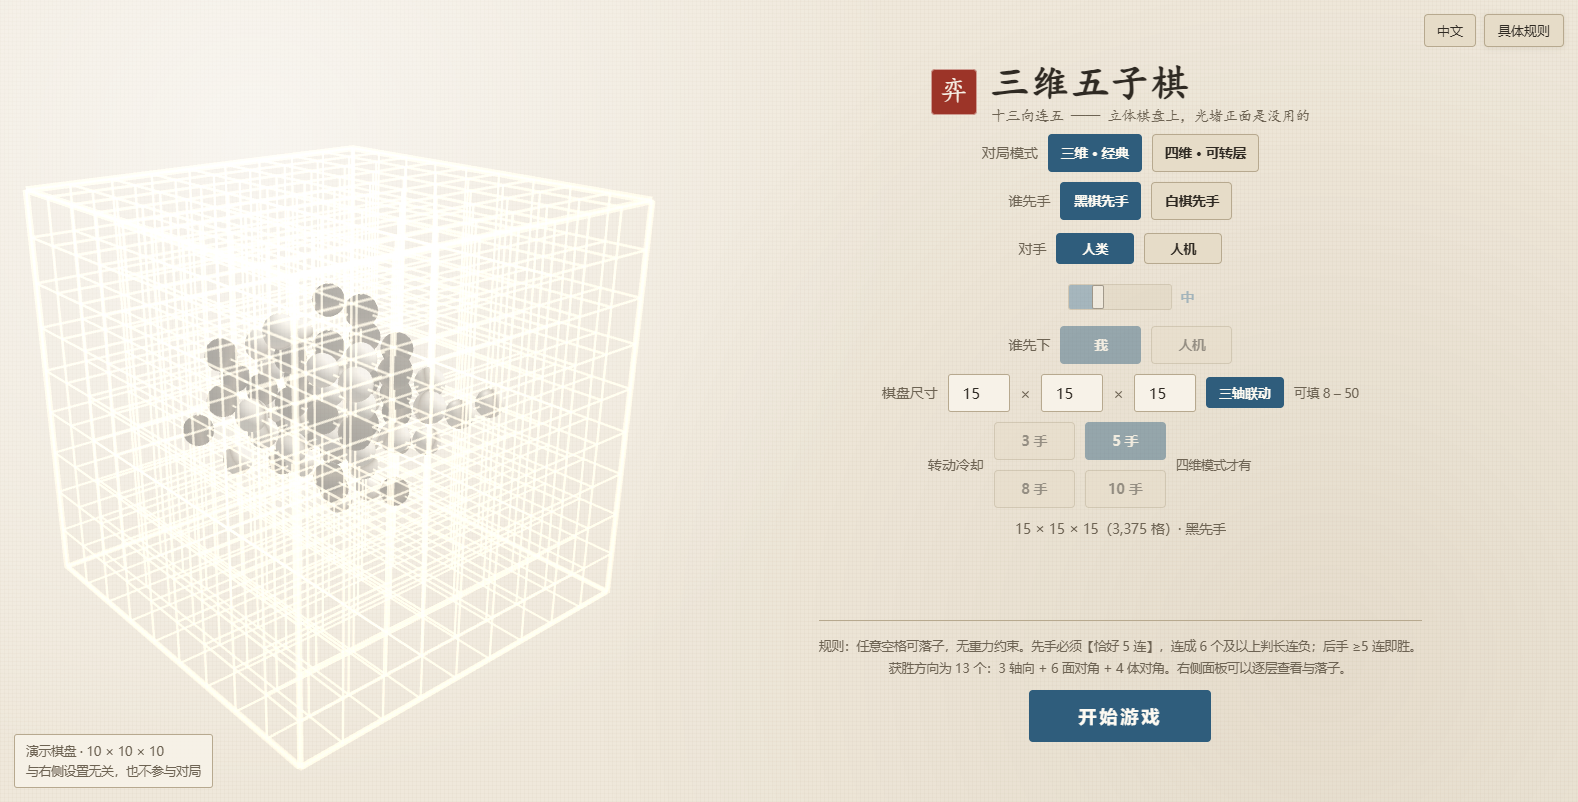
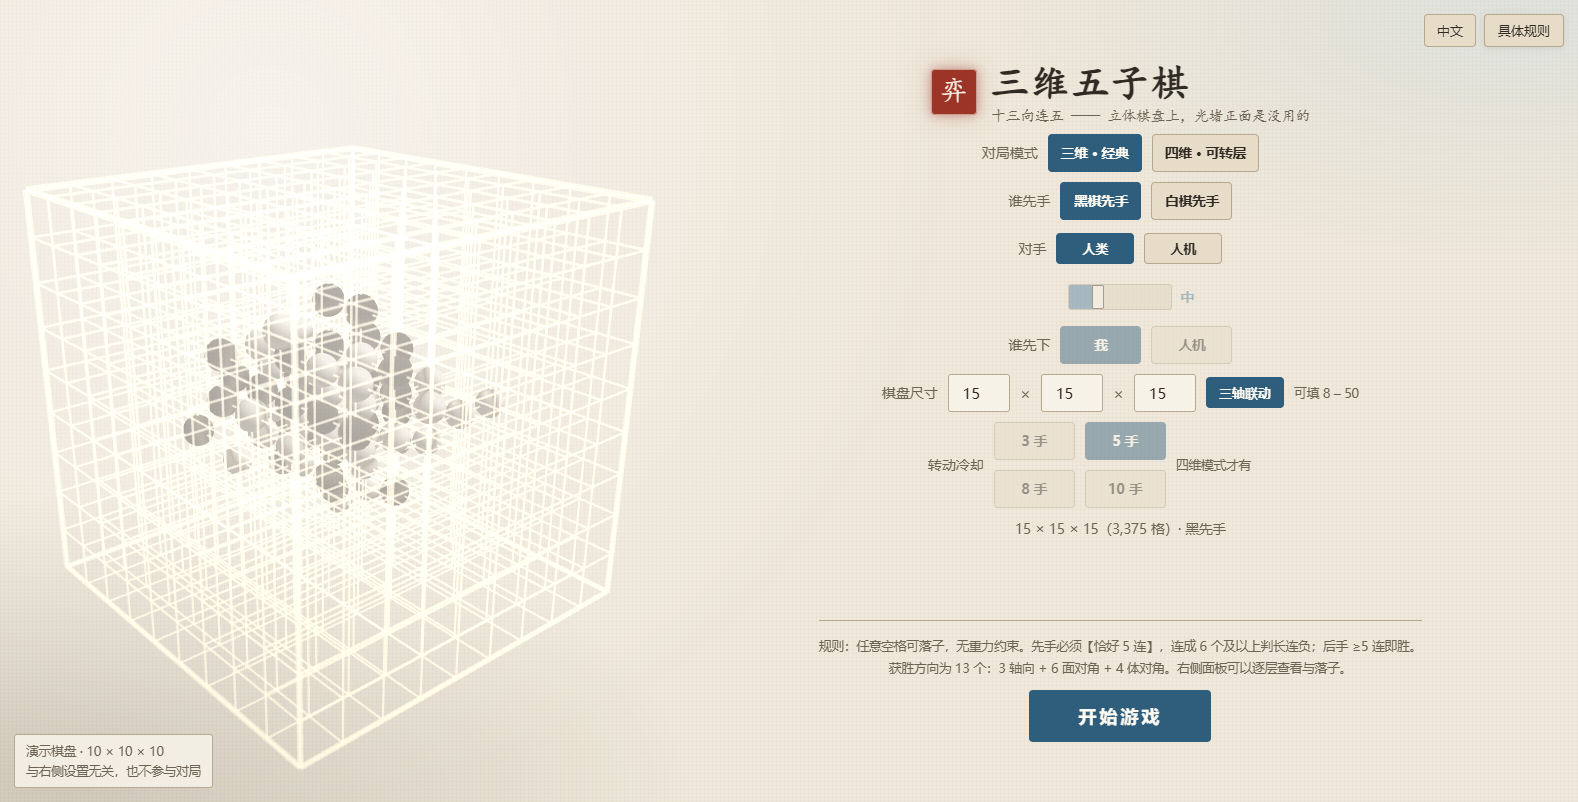
起始界面重打光：两层晕染改三层 + 印章两圈朱砂外发光（v2.11.0）
用户的要求是「给初始界面一个更好看的背景，古风 + 一点点赛博朋克，可以微调按键位置但不能乱，
移动端也是」，并且明确「先给出样图再决定要不要用」「不能有抄袭现象」。
出了 F1/F2/F3 三个候选的对照图，用户选了 F3 —— 改动最小的那一版：
不加任何图案，只把光重打一遍，再把唯一的"通电"放在已有的朱砂印章上。

【为什么是"重新打光"，不是"加了三个装饰"】
改之前是两个 radial：左上白高光 + 右下暖褐。两个不在一个光路上，画面读起来是【平】的。
平最明显的后果是【演示盘的下沿化进纸里】—— 线框立方体是近白色的，
压在同样亮的暖白纸上，底边那一片直接看不见，立方体像浮着而不是立着。
改成三层、方向一致之后画面才有体积：
  · 左上 17% 16%  暖白高光 —— 光从左上来（原来那层，保留，只调淡一点点）
  · 左下  4% 98%  暖褐积墨 —— 给立方体一个【落点】，下沿不再悬空
  · 右上 96%  2%  冷月光   —— 冷色从右上传进来，和左下的暖墨成对角
左下那一汪是关键：alpha 只有 .19，但演示盘下三分之一压在它上面，白线框立刻读得出结构。
参数是照着【实测的演示盘包围盒】调的（藏起画布前后对拍，差分区域就是立方体占的地方，
1600×900 下是 x[17..655] y[186..874]）。

【为什么三层都用百分比定位】
.paper 和 #stage.preview #view 是两个不一样大的盒子（整个视口 / 左边 42%），
下面那个还带着 background-attachment: fixed。百分比是相对【定位区域】算的，
两边都钉在视口上，所以落在同一处，42% 那条缝才不会回来。写死像素就会又裂开。
改的是 --paper-img 这个变量本身，而不是在 .paper 里覆盖 ——
它本来就是两边共用的那一份，各写一份迟早改了一边忘了另一边。

【赛博的那一点放在印章上，而且是"只换 alpha 不换色相"】
全页唯一的"发光"就放在 .seal 上，用的是印章自己的朱砂 rgba(156,52,40)：
  · 套一圈青色会变成两支颜色打架，而且红配青正是最容易出"色彩颤动"的那一组
    （互补色不同波长在晶状体上的聚焦面不同，浅底上更明显）。
  · 两圈（10px / 26px）：浅色底上单层柔光会被纸白吃掉，两层才堆得出辉光。
  · 整页只有这一处。按钮一个都没加 —— 用的是【面积】而不是【颜色】来当强调。

【按钮一个像素都没动】
用户说"可以微调按键的位置"，但这次刻意把背景和布局分开做：
所有按钮的 x/y/宽/高逐个量过，与改动前【完全相同】。布局要不要动，等背景定了再单独议。

【证据】
- `bash _verify/run-all.sh` 九步全绿（含 327 条真实浏览器检查断言）
- 把用户批准的那份 CSS 原样回灌进已改好的页面 → 桌面端与手机竖屏均【0 个差异像素】
- 对局界面逐字节不变：截图 2-长方体棋盘 / 4-规则全文 / 9-四维转动预览
  既与 HEAD 相同、又在两次运行之间稳定
  （7/8/10 是已实测会自己漂的三张，不作证据；截图前一律先钉住演示盘 yaw）
- 帧开销：中位帧间隔差 0.00ms，p95 差 0.10ms（背景层数 4 → 7）
- 截图 1/3/5/6/8 按预期变化（均为起始界面）；
  10-四维转动面板 只差 15 字节，是运行噪声不是这次改动

Changed region(s): [[0.0, 0.8728, 0.1553, 1.0], [0.59, 0.1247, 0.621, 0.1559], [0.59, 0.0623, 0.621, 0.0935]]

diff --git a/Web_Gomoku3D/index.html b/Web_Gomoku3D/index.html
@@ -60,16 +60,34 @@
        必须靠这圈深色轮廓才能读出来 —— 二维面板和三维着色器用的是同一个颜色。 */
     --stone-edge: #4a4034;
     /* 宣纸质感：全部用 CSS 渐变叠出来，不引任何外部图片 —— 这是 file:// 单文件的前提。
-       两个大半径 radial 当晕染，两组 1px 交叉细纹当纸纤维（alpha 只有 0.03，
+       三个大半径 radial 当晕染，两组 1px 交叉细纹当纸纤维（alpha 只有 0.03，
        是"能感觉到"的量级，再高就变成条纹布了）。
+
+       【v2.11.0：三个晕染是一次"重新打光"，不是"加了三个装饰"】
+       改之前是两个 radial：左上白高光 + 右下暖褐。两个不在一个光路上，画面读起来是【平】的。
+       平最明显的后果是【演示盘的下沿化进纸里】：线框立方体是近白色的
+       （--white #fdfaf2 那一支），压在同样亮的暖白纸上，底边那一片直接看不见，
+       整个立方体像浮着而不是立着。改完之后三层方向一致，画面才有体积：
+         · 左上 17% 16%  暖白高光  —— 光从左上来（原来那层，保留，只调淡一点点）
+         · 左下  4% 98%  暖褐积墨  —— 给立方体一个【落点】，下沿不再悬空
+         · 右上 96%  2%  冷月光    —— 冷色从右上传进来，和左下的暖墨成对角
+       左下那一汪是这次改动的关键：alpha 只有 .19，但演示盘下三分之一压在它上面，
+       白线框立刻读得出结构。三层的参数是照着【实测的演示盘包围盒】调的
+       （藏起画布前后对拍，差分区域就是立方体占的地方，1600×900 下是 x[17..655] y[186..874]）。
+
+       【为什么三层都用百分比定位】.paper 和 #stage.preview #view 是【两个不一样大的盒子】
+       （整个视口 / 左边 42%），而且下面那个还带着 background-attachment: fixed。
+       百分比是相对【定位区域】算的，两边都钉在视口上，所以落在同一处，
+       42% 那条缝才不会回来。写死像素就会又裂开。
 
        【为什么它是变量而不是直接写在 .paper 里】：三维画布也要用同一份 ——
        见下面的 `#stage.preview #view`。两边各抄一份的话，改了这里忘了那里，
        起始界面左右之间就会重新裂出一条缝，而且那种缝看起来像"显示器问题"，
        不像代码问题。 */
     --paper-img:
-      radial-gradient(circle at 16% 18%, rgba(255,255,255,.60), transparent 44%),
-      radial-gradient(circle at 84% 82%, rgba(150,126,86,.11), transparent 50%),
+      radial-gradient(circle at 17% 16%, rgba(255,255,255,.50), transparent 46%),
+      radial-gradient(ellipse 60% 55% at 4% 98%, rgba(72,60,42,.19), transparent 66%),
+      radial-gradient(ellipse 48% 44% at 96% 2%, rgba(176,206,220,.26), transparent 68%),
       repeating-linear-gradient(0deg,  rgba(122,102,70,.030) 0 1px, transparent 1px 4px),
       repeating-linear-gradient(90deg, rgba(122,102,70,.030) 0 1px, transparent 1px 4px);
   }
@@ -412,13 +430,26 @@
   }
 
   .titleRow { display: flex; align-items: center; gap: 14px; }
-  /* 印章：朱砂底 + 楷体字。用字体而不是画一个图形，是为了不引任何外部资源。 */
+  /* 印章：朱砂底 + 楷体字。用字体而不是画一个图形，是为了不引任何外部资源。
+
+     【v2.11.0 加的两圈外发光】全页【唯一】一处"发光"就放在这里。
+     为什么挑印章：它是整页唯一一个实心方块，也是唯一一个本来就有"重量"的元素，
+     给它通电最省，读起来就是"指示灯亮着"。三条纪律：
+       · 发光色【就是它自己的朱砂】（rgba(156,52,40)），只换 alpha，不换色相 ——
+         套一圈青色会变成两支颜色打架，而且红配青正是最容易出"色彩颤动"的那一组
+        （互补色不同波长在晶状体上的聚焦面不同，浅底上更明显）。
+       · 两圈（10px / 26px）：浅色底上单层柔光会被纸白吃掉，两层才堆得出辉光。
+       · 整页只有这一处。按钮一个都没加，用的是【面积】而不是【颜色】来当强调。
+     实测对局界面不受影响：.seal 只存在于 #setup 里，对局时 #setup 是 display:none。 */
   .seal {
     width: 46px; height: 46px; flex: 0 0 auto; border-radius: 4px;
     background: var(--danger); color: #f7f2e8;
     display: flex; align-items: center; justify-content: center;
     font-size: 27px; line-height: 1; padding-bottom: 3px;
-    box-shadow: inset 0 0 0 1px rgba(247,242,232,.55);
+    box-shadow:
+      inset 0 0 0 1px rgba(247,242,232,.55),
+      0 0 10px rgba(156,52,40,.42),
+      0 0 26px rgba(156,52,40,.20);
   }
   #setup h1 { font-size: 38px; margin: 0; font-weight: 600; letter-spacing: 2px; }
   #setup .sub { color: var(--dim); font-size: 14.5px; margin-top: 4px; }
